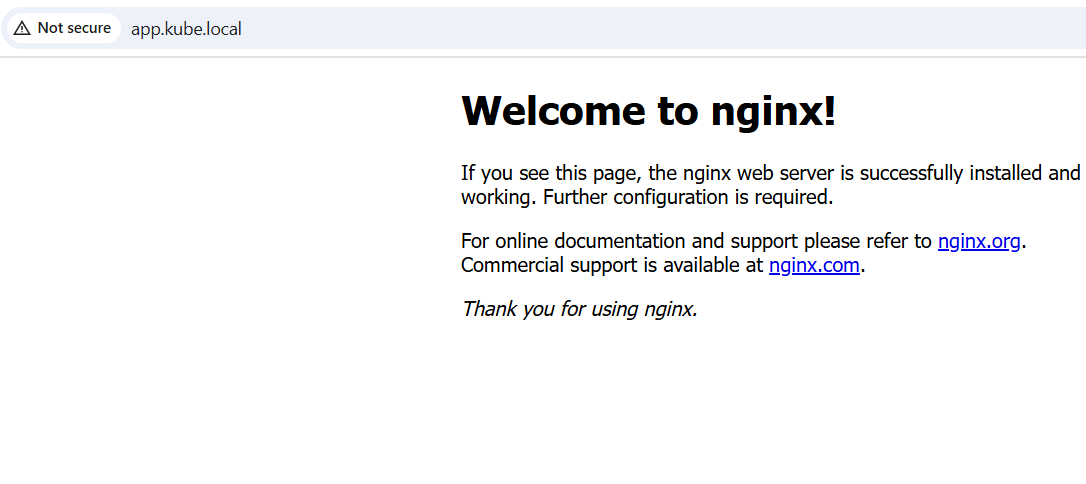
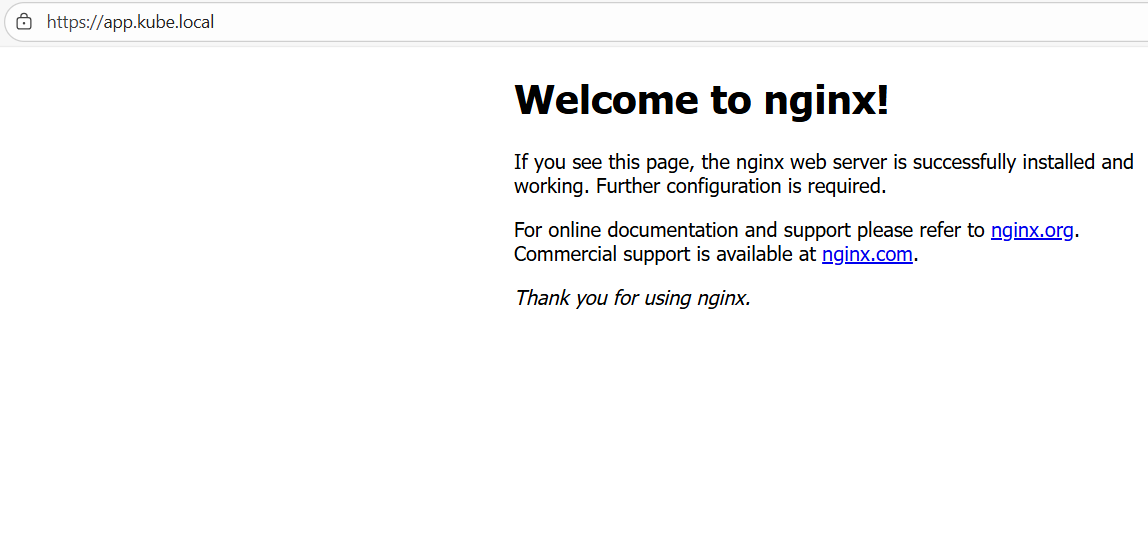
updating readme

Changed region(s): [[0.4254, 0.155, 1.0, 0.5888], [0.0, 0.0, 1.0, 0.124], [0.4254, 0.6198, 0.6381, 0.6818]]

diff --git a/README.md b/README.md
@@ -72,11 +72,22 @@ We also deployed a test Nginx application on the cluster by applying the deploym
    ```bash
    kubectl apply -f nginx-app/
    ```
+Alternatively, you can deploy the application using Terraform with the Kubernetes provider by applying the configuration located in the `./terraform` folder:
+   ```bash
+   cd ./terraform
+   terraform init
+   terraform plan
+   terraform apply --auto-approve
+   ```
+**Note**: When deploying the Nginx application via Terraform, TLS is enabled by default. You need to provide your TLS certificate and key path in the `terraform.tfvars` file to bind with the variables declared in the root `variables.tf`.
+
 The Nginx application is configured to be accessible in a browser using the hostname `app.kube.local`. To enable this, update the `/etc/hosts` file on your local machine by adding the following entry:
    ```lua
    <TARGET-HOST-IP> app.kube.local
    ```
-After updating the hosts file, you can open a browser and navigate to `http://app.kube.local` to access the application.
+After updating the hosts file, you can open a browser and navigate to `https://app.kube.local` to access the application.
+* **If you deployed using** `kubectl`: TLS is **not enabled by default**, so the application will be accessible over plain HTTP (`http://app.kube.local`).
+* **If you deployed using Terraform**: TLS is enabled by default if you provide your certificate and key in the `terraform.tfvars` file, so the application will be accessible via HTTPS (`https://app.kube.local`).
 
 <div align="center">
   <img src="images/nginx-running.png" alt="Nginx running" width="100%" style="border: 1px solid #000; border-radius: 5px;">
